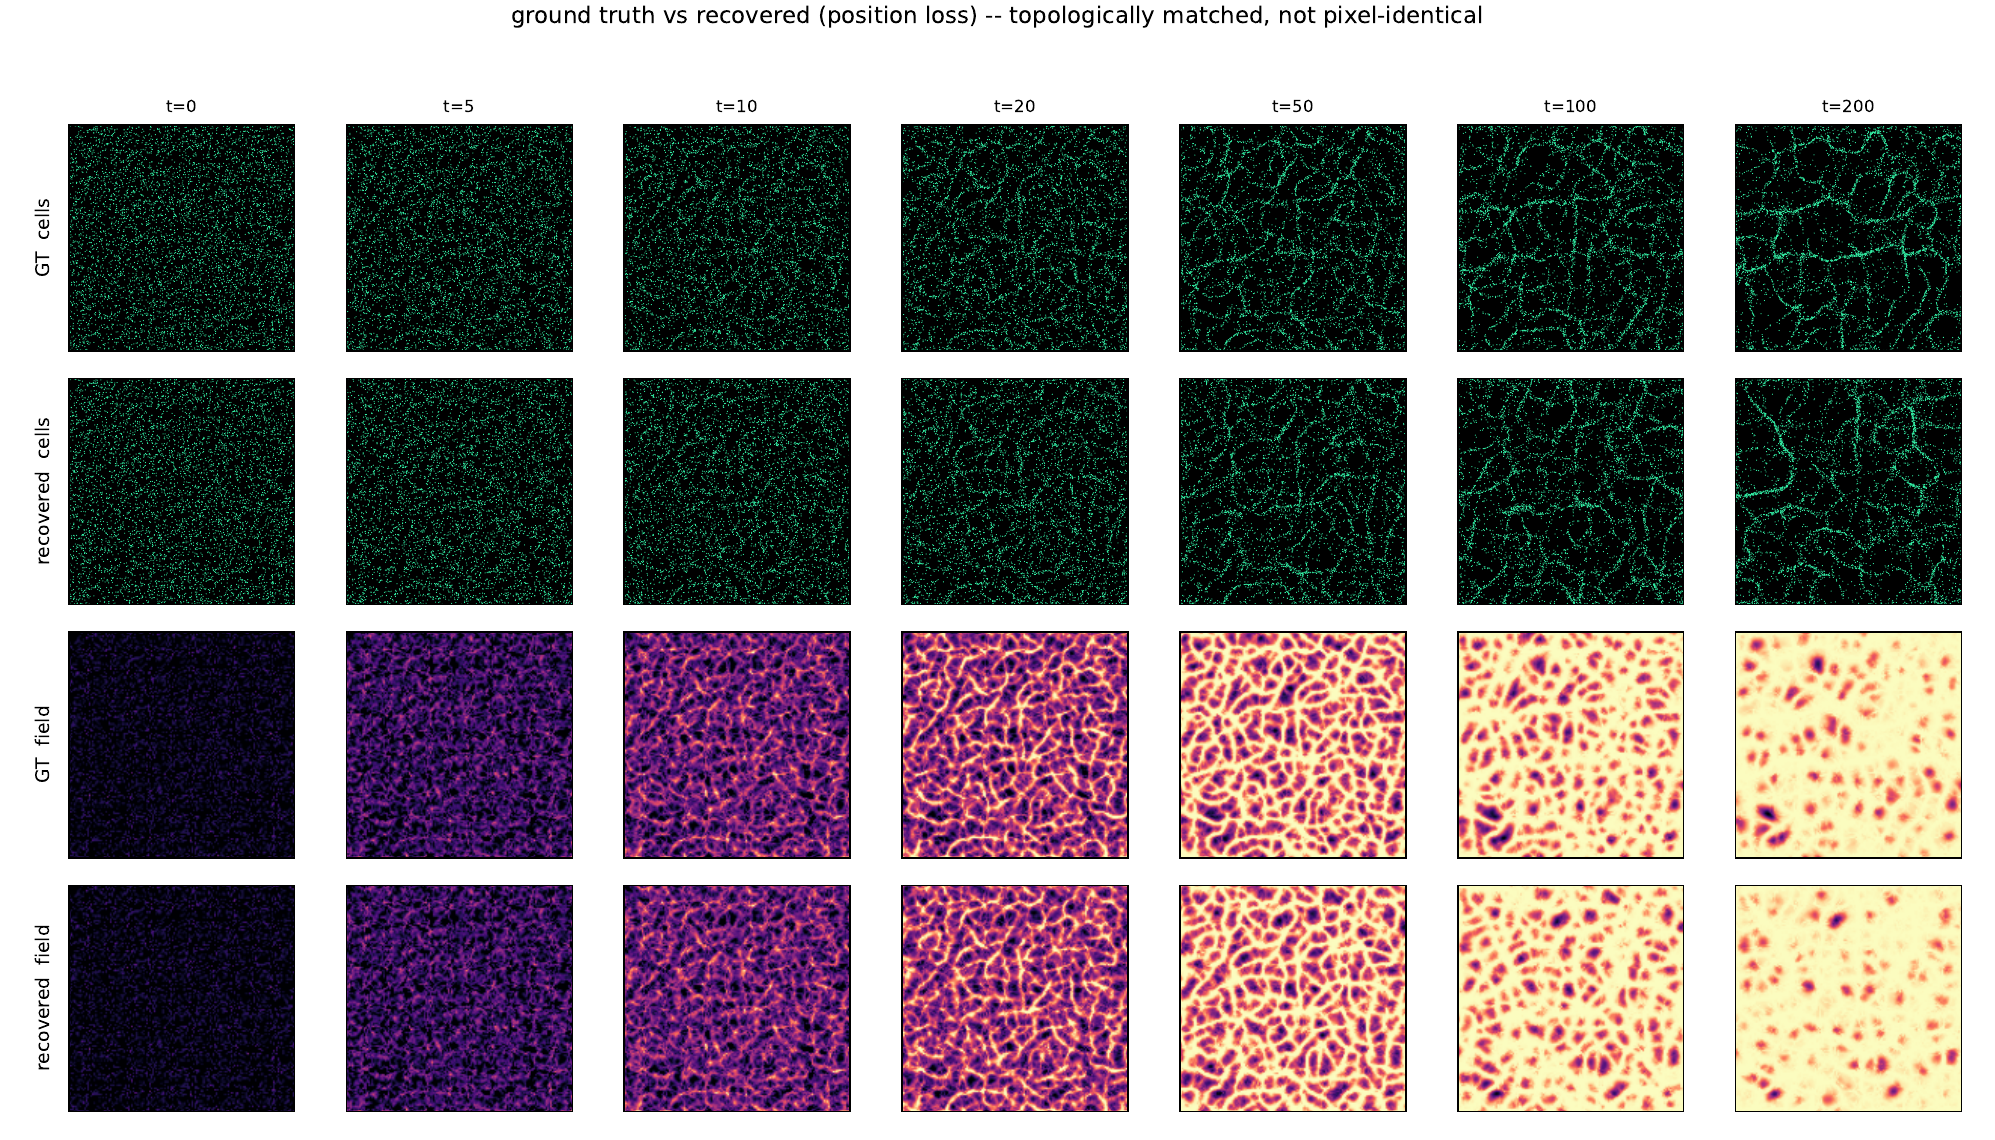
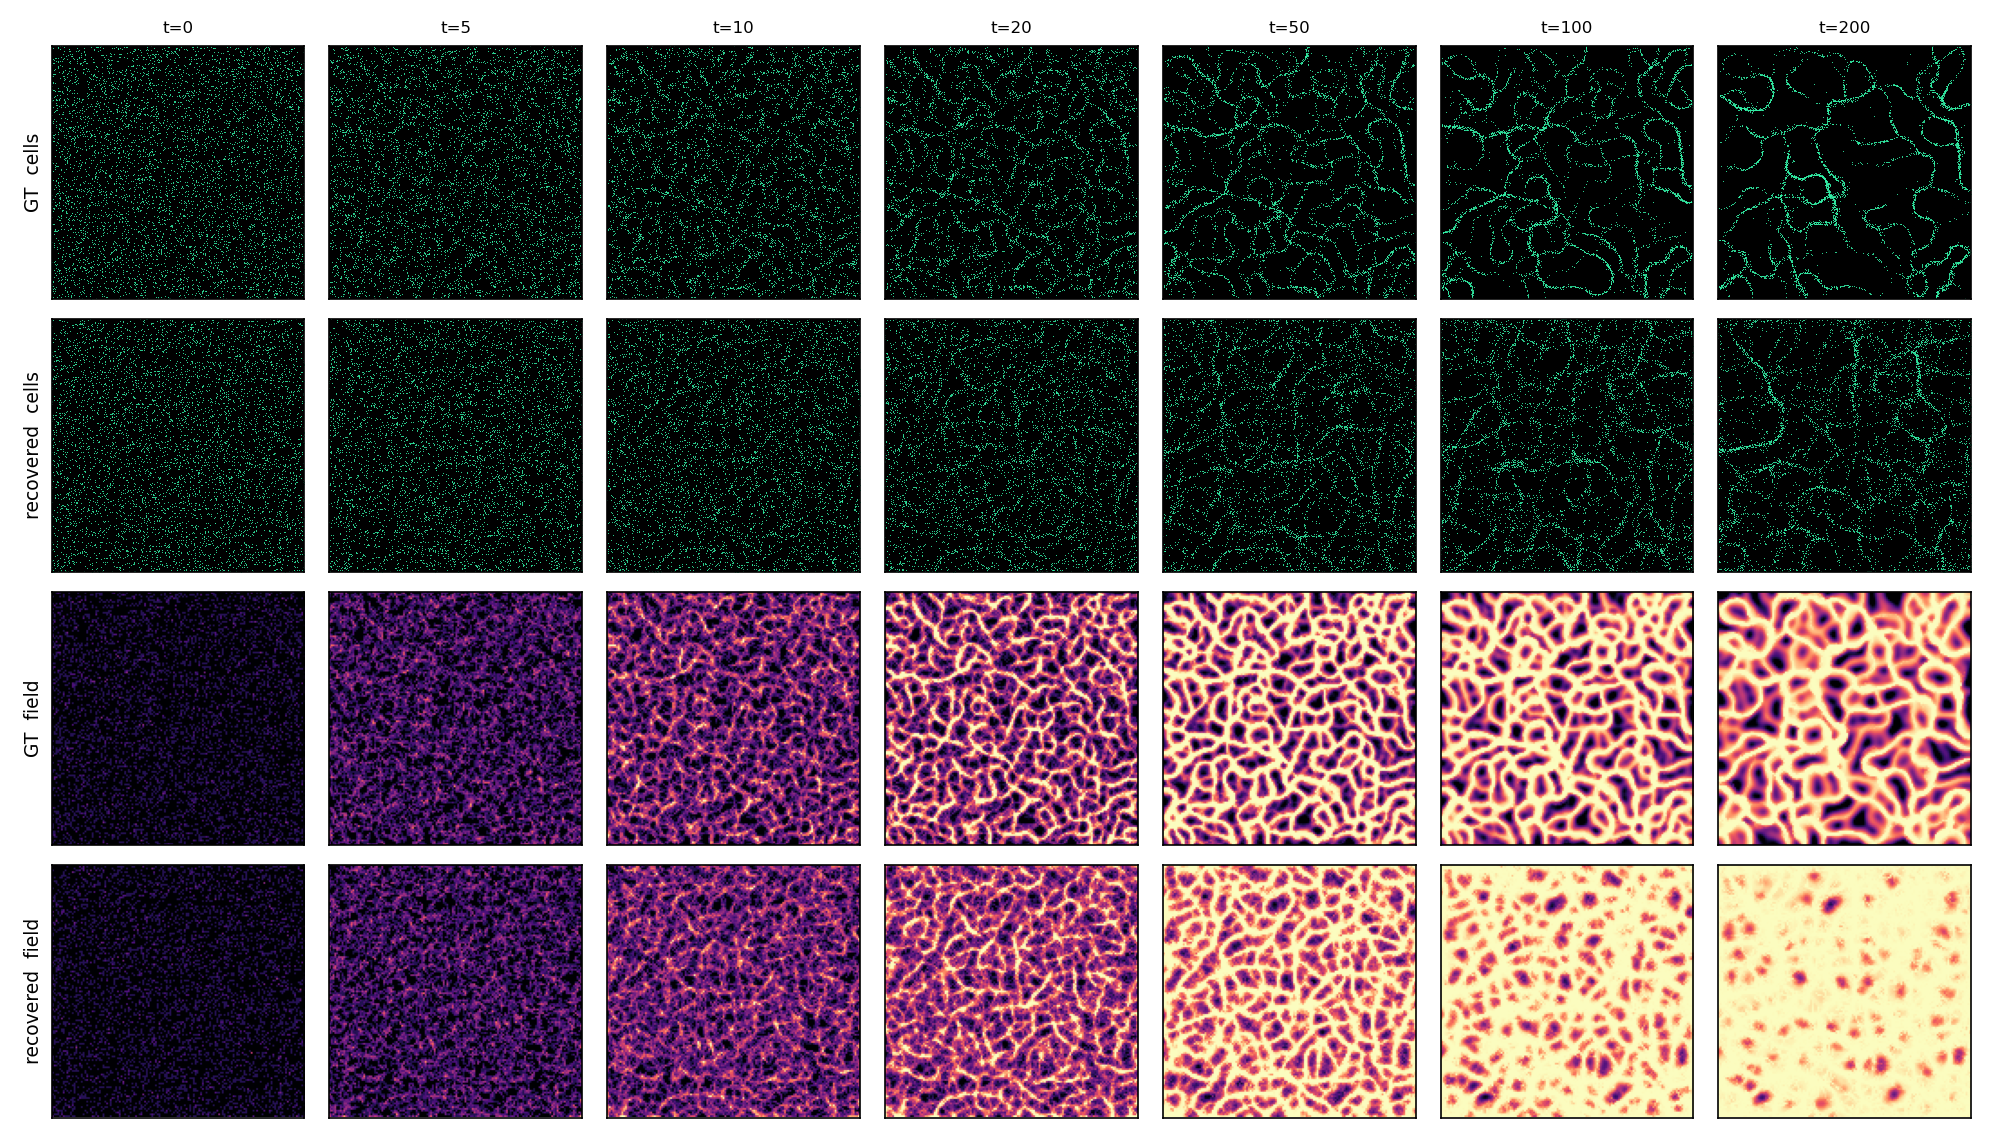
inverse: expand showcase captions (4-5 sentences, explain methods); title-free first figure + caption
Expand the four showcase montage captions to explain each inverse method (8D
position-loss vs heading-loss; 4D gradient-descent vs UCB black-box). Regenerate
the first figure (fig_evolution) without its suptitle and give it a 5-sentence
caption. Site-only (temp script, no prototype source touched).

diff --git a/docs/inverse.html b/docs/inverse.html
@@ -242,7 +242,12 @@ window.Quarto = {
 <p>The recovered spec does not match the target frame-for-frame — the process is stochastic — but produces the <strong>same topology</strong>: the same filament network, loop density and length scale.</p>
 <div class="quarto-figure quarto-figure-center">
 <figure class="figure">
-<p><a href="figures/fig_inverse_evolution.png" class="lightbox" data-gallery="quarto-lightbox-gallery-1"><img src="figures/fig_inverse_evolution.png" class="img-fluid quarto-figure quarto-figure-center figure-img"></a></p>
+<div class="quarto-figure quarto-figure-center">
+<figure class="figure">
+<p><a href="figures/fig_inverse_evolution.png" class="lightbox" data-gallery="quarto-lightbox-gallery-1" title="Ground truth vs the best recovery (8D position-loss) across time (t = 0 → 200). The top two rows are the agents — the ground-truth run and a run from the recovered eight-number spec — and the bottom two rows are those same two runs drawn as the chemical trail field the agents deposit and sense. Both start from spatial noise (uniformly random positions, an empty field) and condense tick by tick into a filament network, a path from noise to a sample that reads like a written generative process rather than a learned one. Because the dynamics are stochastic — a random seed, and a random turn magnitude in sense — the recovered run never matches the target frame-for-frame, so a pixel-for-pixel comparison would be meaningless. What it does reproduce is the target’s topology — the same branch density, loop statistics and characteristic length scale — which is exactly the invariant the inverse problem solves for."><img src="figures/fig_inverse_evolution.png" class="img-fluid quarto-figure quarto-figure-center figure-img" alt="Ground truth vs the best recovery (8D position-loss) across time (t = 0 → 200). The top two rows are the agents — the ground-truth run and a run from the recovered eight-number spec — and the bottom two rows are those same two runs drawn as the chemical trail field the agents deposit and sense. Both start from spatial noise (uniformly random positions, an empty field) and condense tick by tick into a filament network, a path from noise to a sample that reads like a written generative process rather than a learned one. Because the dynamics are stochastic — a random seed, and a random turn magnitude in sense — the recovered run never matches the target frame-for-frame, so a pixel-for-pixel comparison would be meaningless. What it does reproduce is the target’s topology — the same branch density, loop statistics and characteristic length scale — which is exactly the invariant the inverse problem solves for."></a></p>
+</figure>
+</div>
+<figcaption>Ground truth vs the best recovery (8D position-loss) across time (<em>t</em> = 0 → 200). The top two rows are the <strong>agents</strong> — the ground-truth run and a run from the recovered eight-number spec — and the bottom two rows are those same two runs drawn as the <strong>chemical trail field</strong> the agents deposit and sense. Both start from spatial noise (uniformly random positions, an empty field) and condense tick by tick into a filament network, a path from noise to a sample that reads like a <em>written</em> generative process rather than a learned one. Because the dynamics are stochastic — a random seed, and a random turn magnitude in <code>sense</code> — the recovered run never matches the target frame-for-frame, so a pixel-for-pixel comparison would be meaningless. What it does reproduce is the target’s <strong>topology</strong> — the same branch density, loop statistics and characteristic length scale — which is exactly the invariant the inverse problem solves for.</figcaption>
 </figure>
 </div>
 </section>
@@ -281,40 +286,40 @@ window.Quarto = {
 <figure class="figure">
 <div class="quarto-figure quarto-figure-center">
 <figure class="figure">
-<p><a href="figures/fig_inverse_gal_00.png" class="lightbox" data-gallery="quarto-lightbox-gallery-2" title="Cells — best methods. Ground truth vs the two best recoveries (8D position-loss, 8D heading-loss); the recovered agent networks converge onto the target morphology."><img src="figures/fig_inverse_gal_00.png" class="img-fluid quarto-figure quarto-figure-center figure-img" alt="Cells — best methods. Ground truth vs the two best recoveries (8D position-loss, 8D heading-loss); the recovered agent networks converge onto the target morphology."></a></p>
+<p><a href="figures/fig_inverse_gal_00.png" class="lightbox" data-gallery="quarto-lightbox-gallery-2" title="Cells — best methods. The top row is the ground-truth simulation; the two rows below are agent runs from parameters recovered by the two strongest inverse methods — both full eight-parameter (8D) gradient-descent fits through the differentiable operators, differing only in their loss. 8D position-loss puts the loss directly on the predicted particle positions — free-running sense→advance and matching where the cells actually are — which drops the atan2 heading reconstruction and its bias toward large sensor_angle, making it the best method overall. 8D heading-loss instead matches a heading reconstructed from each cell’s displacement, which pushes sensor_angle too high, though it still recovers the overall network. Reading left to right (columns are time, t = 0 → 200), both recoveries condense from noise into the same filament morphology as the target. The agreement is topological rather than frame-for-frame — the same branch density and length scale, not identical dot positions."><img src="figures/fig_inverse_gal_00.png" class="img-fluid quarto-figure quarto-figure-center figure-img" alt="Cells — best methods. The top row is the ground-truth simulation; the two rows below are agent runs from parameters recovered by the two strongest inverse methods — both full eight-parameter (8D) gradient-descent fits through the differentiable operators, differing only in their loss. 8D position-loss puts the loss directly on the predicted particle positions — free-running sense→advance and matching where the cells actually are — which drops the atan2 heading reconstruction and its bias toward large sensor_angle, making it the best method overall. 8D heading-loss instead matches a heading reconstructed from each cell’s displacement, which pushes sensor_angle too high, though it still recovers the overall network. Reading left to right (columns are time, t = 0 → 200), both recoveries condense from noise into the same filament morphology as the target. The agreement is topological rather than frame-for-frame — the same branch density and length scale, not identical dot positions."></a></p>
 </figure>
 </div>
-<figcaption><strong>Cells — best methods.</strong> Ground truth vs the two best recoveries (8D position-loss, 8D heading-loss); the recovered agent networks converge onto the target morphology.</figcaption>
-</figure>
-</div>
-<div class="quarto-figure quarto-figure-center">
-<figure class="figure">
-<div class="quarto-figure quarto-figure-center">
-<figure class="figure">
-<p><a href="figures/fig_inverse_gal_01.png" class="lightbox" data-gallery="quarto-lightbox-gallery-3" title="Chemical field — best methods. The same three runs, drawn as the deposited trail field instead of the agents."><img src="figures/fig_inverse_gal_01.png" class="img-fluid quarto-figure quarto-figure-center figure-img" alt="Chemical field — best methods. The same three runs, drawn as the deposited trail field instead of the agents."></a></p>
-</figure>
-</div>
-<figcaption><strong>Chemical field — best methods.</strong> The same three runs, drawn as the deposited trail field instead of the agents.</figcaption>
+<figcaption><strong>Cells — best methods.</strong> The top row is the ground-truth simulation; the two rows below are agent runs from parameters recovered by the two strongest inverse methods — both full eight-parameter (8D) gradient-descent fits through the differentiable operators, differing only in their loss. <strong>8D position-loss</strong> puts the loss directly on the predicted particle positions — free-running <code>sense</code>→<code>advance</code> and matching where the cells actually are — which drops the <code>atan2</code> heading reconstruction and its bias toward large <code>sensor_angle</code>, making it the best method overall. <strong>8D heading-loss</strong> instead matches a heading reconstructed from each cell’s displacement, which pushes <code>sensor_angle</code> too high, though it still recovers the overall network. Reading left to right (columns are time, <em>t</em> = 0 → 200), both recoveries condense from noise into the same filament morphology as the target. The agreement is topological rather than frame-for-frame — the same branch density and length scale, not identical dot positions.</figcaption>
 </figure>
 </div>
 <div class="quarto-figure quarto-figure-center">
 <figure class="figure">
 <div class="quarto-figure quarto-figure-center">
 <figure class="figure">
-<p><a href="figures/fig_inverse_gal_02.png" class="lightbox" data-gallery="quarto-lightbox-gallery-4" title="Cells — baselines. Ground truth vs the weaker recoveries (4D gradient-descent on field+move, and UCB black-box search)."><img src="figures/fig_inverse_gal_02.png" class="img-fluid quarto-figure quarto-figure-center figure-img" alt="Cells — baselines. Ground truth vs the weaker recoveries (4D gradient-descent on field+move, and UCB black-box search)."></a></p>
+<p><a href="figures/fig_inverse_gal_01.png" class="lightbox" data-gallery="quarto-lightbox-gallery-3" title="Chemical field — best methods. The same three runs as the previous montage — ground truth on top, the two best 8D gradient-descent recoveries below — but drawn as the chemical trail field the agents deposit and sense, rather than the agents themselves. The field is the linear, teacher-forced half of the problem: a single step from one field frame to the next recovers deposit, diffuse and decay to about 10⁻³, so both recoveries reproduce the target field almost exactly. Shown as a smooth density (columns are time, t = 0 → 200), the deposited-and-diffused trail network is easier to read than the discrete agents. This tight field match is why the harder sensing parameters can be identified from the agents at all. Compared with the baseline field montage further down, it shows how sharply the gradient fit reproduces the trail."><img src="figures/fig_inverse_gal_01.png" class="img-fluid quarto-figure quarto-figure-center figure-img" alt="Chemical field — best methods. The same three runs as the previous montage — ground truth on top, the two best 8D gradient-descent recoveries below — but drawn as the chemical trail field the agents deposit and sense, rather than the agents themselves. The field is the linear, teacher-forced half of the problem: a single step from one field frame to the next recovers deposit, diffuse and decay to about 10⁻³, so both recoveries reproduce the target field almost exactly. Shown as a smooth density (columns are time, t = 0 → 200), the deposited-and-diffused trail network is easier to read than the discrete agents. This tight field match is why the harder sensing parameters can be identified from the agents at all. Compared with the baseline field montage further down, it shows how sharply the gradient fit reproduces the trail."></a></p>
 </figure>
 </div>
-<figcaption><strong>Cells — baselines.</strong> Ground truth vs the weaker recoveries (4D gradient-descent on field+move, and UCB black-box search).</figcaption>
+<figcaption><strong>Chemical field — best methods.</strong> The same three runs as the previous montage — ground truth on top, the two best 8D gradient-descent recoveries below — but drawn as the <strong>chemical trail field</strong> the agents deposit and sense, rather than the agents themselves. The field is the linear, teacher-forced half of the problem: a single step from one field frame to the next recovers <code>deposit</code>, <code>diffuse</code> and <code>decay</code> to about 10⁻³, so both recoveries reproduce the target field almost exactly. Shown as a smooth density (columns are time, <em>t</em> = 0 → 200), the deposited-and-diffused trail network is easier to read than the discrete agents. This tight field match is <em>why</em> the harder sensing parameters can be identified from the agents at all. Compared with the baseline field montage further down, it shows how sharply the gradient fit reproduces the trail.</figcaption>
 </figure>
 </div>
 <div class="quarto-figure quarto-figure-center">
 <figure class="figure">
 <div class="quarto-figure quarto-figure-center">
 <figure class="figure">
-<p><a href="figures/fig_inverse_gal_03.png" class="lightbox" data-gallery="quarto-lightbox-gallery-5" title="Chemical field — baselines. The baseline recoveries drawn as the trail field."><img src="figures/fig_inverse_gal_03.png" class="img-fluid quarto-figure quarto-figure-center figure-img" alt="Chemical field — baselines. The baseline recoveries drawn as the trail field."></a></p>
+<p><a href="figures/fig_inverse_gal_02.png" class="lightbox" data-gallery="quarto-lightbox-gallery-4" title="Cells — baselines. Ground truth on top, with two deliberately weaker recovery methods beneath it for comparison. 4D gradient-descent (field + move) fits only the four field parameters plus move_speed by one-step teacher forcing — the easy, near-linear half of the spec — and leaves the three sensing parameters (turn_speed, sensor_angle, sensor_dist) unconstrained, so its morphology drifts. UCB black-box search treats the simulator as an opaque function and explores parameter space with an upper-confidence-bound bandit, using no gradients at all; it left diffuse.rate in the wrong half of its range and is about 224× less accurate than the one-step gradient fit. As the columns advance (t = 0 → 200) these baselines wander off the target network where the best 8D fits stay locked onto it. They are shown to make concrete what the gradient-based, operator-exact approach improves on."><img src="figures/fig_inverse_gal_02.png" class="img-fluid quarto-figure quarto-figure-center figure-img" alt="Cells — baselines. Ground truth on top, with two deliberately weaker recovery methods beneath it for comparison. 4D gradient-descent (field + move) fits only the four field parameters plus move_speed by one-step teacher forcing — the easy, near-linear half of the spec — and leaves the three sensing parameters (turn_speed, sensor_angle, sensor_dist) unconstrained, so its morphology drifts. UCB black-box search treats the simulator as an opaque function and explores parameter space with an upper-confidence-bound bandit, using no gradients at all; it left diffuse.rate in the wrong half of its range and is about 224× less accurate than the one-step gradient fit. As the columns advance (t = 0 → 200) these baselines wander off the target network where the best 8D fits stay locked onto it. They are shown to make concrete what the gradient-based, operator-exact approach improves on."></a></p>
 </figure>
 </div>
-<figcaption><strong>Chemical field — baselines.</strong> The baseline recoveries drawn as the trail field.</figcaption>
+<figcaption><strong>Cells — baselines.</strong> Ground truth on top, with two deliberately weaker recovery methods beneath it for comparison. <strong>4D gradient-descent (field + move)</strong> fits only the four field parameters plus <code>move_speed</code> by one-step teacher forcing — the easy, near-linear half of the spec — and leaves the three sensing parameters (<code>turn_speed</code>, <code>sensor_angle</code>, <code>sensor_dist</code>) unconstrained, so its morphology drifts. <strong>UCB black-box search</strong> treats the simulator as an opaque function and explores parameter space with an upper-confidence-bound bandit, using no gradients at all; it left <code>diffuse.rate</code> in the wrong half of its range and is about <strong>224× less accurate</strong> than the one-step gradient fit. As the columns advance (<em>t</em> = 0 → 200) these baselines wander off the target network where the best 8D fits stay locked onto it. They are shown to make concrete what the gradient-based, operator-exact approach improves on.</figcaption>
+</figure>
+</div>
+<div class="quarto-figure quarto-figure-center">
+<figure class="figure">
+<div class="quarto-figure quarto-figure-center">
+<figure class="figure">
+<p><a href="figures/fig_inverse_gal_03.png" class="lightbox" data-gallery="quarto-lightbox-gallery-5" title="Chemical field — baselines. The same two baseline recoveries — 4D gradient-descent and UCB black-box search — drawn as the deposited chemical field instead of the agents, ground truth on top. Because the field parameters are the most identifiable part of the spec, even these weaker methods reproduce the broad trail structure in the early frames. But the black-box search’s misplaced diffuse.rate shows up directly as a field that spreads too fast or too slow, so its trail network coarsens or thins away from the target as time advances. The 4D fit fares better on the field but still lacks the sensing parameters that shape the fine network. Set against the best-methods field montage above, this panel shows how much a gradient-based, operator-exact fit tightens the recovered field (columns are time, t = 0 → 200)."><img src="figures/fig_inverse_gal_03.png" class="img-fluid quarto-figure quarto-figure-center figure-img" alt="Chemical field — baselines. The same two baseline recoveries — 4D gradient-descent and UCB black-box search — drawn as the deposited chemical field instead of the agents, ground truth on top. Because the field parameters are the most identifiable part of the spec, even these weaker methods reproduce the broad trail structure in the early frames. But the black-box search’s misplaced diffuse.rate shows up directly as a field that spreads too fast or too slow, so its trail network coarsens or thins away from the target as time advances. The 4D fit fares better on the field but still lacks the sensing parameters that shape the fine network. Set against the best-methods field montage above, this panel shows how much a gradient-based, operator-exact fit tightens the recovered field (columns are time, t = 0 → 200)."></a></p>
+</figure>
+</div>
+<figcaption><strong>Chemical field — baselines.</strong> The same two baseline recoveries — 4D gradient-descent and UCB black-box search — drawn as the deposited <strong>chemical field</strong> instead of the agents, ground truth on top. Because the field parameters are the most identifiable part of the spec, even these weaker methods reproduce the broad trail structure in the early frames. But the black-box search’s misplaced <code>diffuse.rate</code> shows up directly as a field that spreads too fast or too slow, so its trail network coarsens or thins away from the target as time advances. The 4D fit fares better on the field but still lacks the sensing parameters that shape the fine network. Set against the best-methods field montage above, this panel shows how much a gradient-based, operator-exact fit tightens the recovered field (columns are time, <em>t</em> = 0 → 200).</figcaption>
 </figure>
 </div>
 </section>
